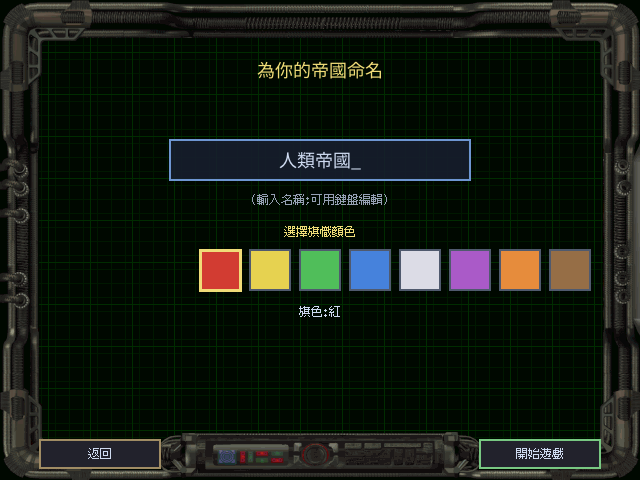
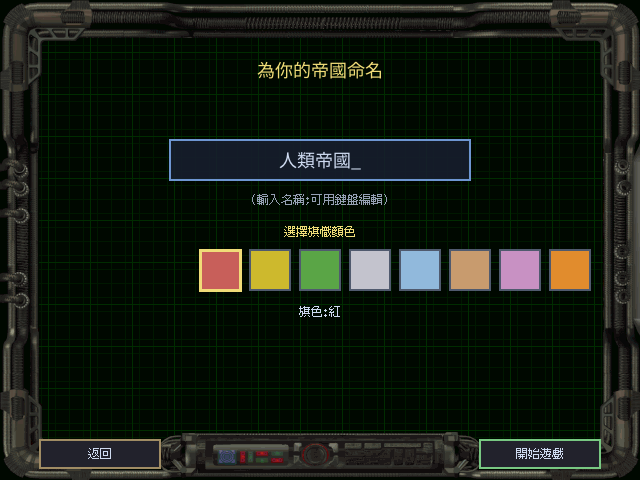
feat(galaxy): 艦隊圖示換成原版的,順帶修掉錯位五格的旗色順序
星圖上的艦隊先前是個 8×8 青色方塊,那是佔位。原版 Draw_Ship_Icons_ @ 0xA070F
畫的是帶旗色的小艦艇 sprite:

    帝國艦隊 = BUFFER0.LBX 資產 205 + 旗色×4 + 縮放

「×4」是因為原版星圖有四段縮放,每段一張圖(205..208 = 11×11 / 12×11 /
12×10 / 16×12,由小到大),縮放值原版還反過來映射(3→0…0→3)——縮得最遠
用最小的圖。remake 星圖沒有縮放(固定全銀河檢視),所以固定用縮放 0。
每張圖 8 幀在跑動畫,remake 只取第 0 幀,靜態的。

⚠ 順帶抓到旗色順序錯位。艦隊圖示既然是 205 + 旗色×4,旗色的順序本身就是
資料;remake 先前是 紅/黃/綠/藍/白/紫/橙/棕,後五個全錯——選藍色會開出白色
的艦隊,而中文模式完全看不出來(顏色名還是對的)。兩個獨立來源對上才改:

  ① BUFFER0 205/209/…/233 渲染出來量代表色
  ② openorion2 src/gfx.h 的 FONT_COLOR_PLAYER_*

兩邊都是 RED / YELLOW / GREEN / SILVER / BLUE / BROWN / PURPLE / ORANGE。
第 4 色原版叫 SILVER(銀)不是 White,量到的 (190,190,198) 也確實偏灰。

另外拿掉星圖左上那行「研究:<主題名>」——那是 remake 自己加的,原版星圖沒有
這東西(研究主題只在研究畫面顯示),而且它就壓在左上角的星星與艦隊圖示上。
原版右欄第 5 格(綠燒瓶)放的是數字,改成每回合研究點數,跟其他四格一致。

gap report 第 32 項另外抄下整張星圖的 9 層繪製順序與 remake 各層完成度
(星雲、視差背景、蟲洞連線、星門、黑洞、外交燈號都還沒有)。

中文模式 17 張逐像素比對:變的是星圖、命名旗色、軌道轟炸三張,其餘未變。

Changed region(s): [[0.3125, 0.5, 0.9375, 0.625]]

diff --git a/cmd/moo2/shipicon.go b/cmd/moo2/shipicon.go
@@ -1,0 +1,102 @@
+package main
+
+// shipicon.go:星圖上的**艦隊圖示**(原版 `Draw_Ship_Icons_` @ 0xA070F)。
+//
+// remake 先前在艦隊所在星畫一個 8×8 的青色方塊——那是佔位,不是原版的東西。
+// 原版是一組帶旗色的小艦艇 sprite。
+//
+// ============ 星圖的圖層順序(`Draw_Main_Main_Screen_` @ 0x8440E)============
+//
+// 順帶把整張星圖的圖層抄下來,免得日後又要重找:
+//
+//	1. `Draw_Wormhole_Links_`   @ 0x85593
+//	2. `Draw_Relocation_Links_` @ 0x85320
+//	3. `Draw_Stars_`            @ 0x85550   → 逐星 `Draw_A_Star_` @ 0x83B02
+//	4. `Draw_A_Gate_Icon_`      @ 0x83741(迴圈)
+//	5. `Print_Star_Names_`      @ 0x88CB7
+//	6. `Draw_Black_Holes_`      @ 0x83BF9
+//	7. `Draw_Ship_Icons_`       @ 0xA070F   ← 這一支
+//	8. `Print_Main_Screen_Data_`@ 0x87BAE
+//	9. `Draw_Diplomacy_Request_Lights_` @ 0x83D06
+//
+// (外層 `Draw_Main_Screen_` 另有 `Draw_Nebulae_` @ 0x84F8F 與 `Draw_Paralax_` @ 0x8500F。)
+// remake 目前只做了 3 與 7 的簡化版,其餘都還沒有——記在 gap report。
+//
+// ============ 圖檔:`Get_Ship_Icon_Pict_Seg_` @ 0xA0D78 ============
+//
+//	帝國艦隊(id 0..7):BUFFER0.LBX 資產 = 0xCD(205) + 旗色×4 + 縮放
+//	第 9 類(id 8)  :              = 0xED(237) + 縮放
+//	id 9..14        :              = 0xF1(241) + (id−9)×4 + 縮放
+//
+// 旗色取自玩家結構 +0x26(結構步距 0xEA9)。「×4」是因為原版星圖有**四段縮放**,
+// 每段一張圖:實測 205..208 是 11×11 / 12×11 / 12×10 / 16×12,由小到大。
+// 縮放值由 `sub_79917` 給,原版還把它反過來映射(3→0、2→1、1→2、0→3)——
+// 也就是**縮得最遠 → 用最小的圖**。
+//
+// ⚠ remake 的星圖沒有縮放(固定全銀河檢視,對應原版縮得最遠那段),所以固定用縮放 0。
+// 真的做出縮放時,這裡要跟著換,不是改圖。
+//
+// 每張圖有 **8 幀**(原版 `Cycle_Ship_Icons_` @ 0x82DFF 在跑動畫)。remake 目前只取第 0 幀,
+// 靜態的——動畫沒做,寫在這裡免得被誤認為已完成。
+//
+// ⚠ 位置用 remake 自己算的星座標,不是原版的 `Get_Ship_Icon_Coords_` @ 0xA0A5C。
+// 原版那支要有「艦隊在兩星之間航行到第幾格」的模型才有意義,remake 的艦隊移動是整段跳的。
+
+import (
+	"strconv"
+
+	"github.com/hajimehoshi/ebiten/v2"
+	"github.com/wicanr2/master-of-orion2-remake-cht/internal/shell"
+)
+
+const (
+	shipIconLBX = "buffer0.lbx"
+	// 原版三段的資產基底(見檔頭)。remake 目前只用得到第一段。
+	shipIconEmpireBase = 205
+	shipIconPerFlag    = 4
+	// remake 星圖固定全銀河檢視 = 原版縮得最遠那一段 → 縮放 0(最小的那張圖)。
+	shipIconZoom = 0
+)
+
+// shipIconAsset 回傳某旗色的艦隊圖示資產編號。旗色超出 0..7 就夾回去——
+// 原版的旗色本來就只有 8 種,越界代表上游有 bug,但畫面不該因此整個不見。
+func shipIconAsset(flag int) int {
+	if flag < 0 || flag >= len(shell.FlagColors) {
+		flag = 0
+	}
+	return shipIconEmpireBase + flag*shipIconPerFlag + shipIconZoom
+}
+
+// shipIconImage 解出艦隊圖示並快取(取不到回 nil,呼叫端自己退回方塊)。
+func (b *sceneBuilder) shipIconImage(flag int) *ebiten.Image {
+	asset := shipIconAsset(flag)
+	key := shipIconLBX + ":" + strconv.Itoa(asset)
+	if im, hit := b.colBldgCache[key]; hit {
+		return im
+	}
+	if b.colBldgCache == nil {
+		b.colBldgCache = map[string]*ebiten.Image{}
+	}
+	var img *ebiten.Image
+	if im, err := decodeAsset(b.res, shipIconLBX, asset); err == nil && len(im.Frames) > 0 {
+		if pal, err := resolvePalette(b.res, im, paletteChain{{"buffer0.lbx", 0}}); err == nil {
+			img = ebiten.NewImageFromImage(im.Frames[0].ToRGBADropTranslucent(pal, im.KeyColor()))
+		}
+	}
+	b.colBldgCache[key] = img
+	return img
+}
+
+// drawShipIconAt 把艦隊圖示畫在 (cx, cy) 置中。回傳有沒有畫成功——
+// 沒有原版資產時(例如單元測試或資料夾不完整)呼叫端要自己退回舊的方塊標記。
+func (b *sceneBuilder) drawShipIconAt(dst *ebiten.Image, flag, cx, cy int) bool {
+	im := b.shipIconImage(flag)
+	if im == nil {
+		return false
+	}
+	w, h := im.Bounds().Dx(), im.Bounds().Dy()
+	op := &ebiten.DrawImageOptions{}
+	op.GeoM.Translate(float64(cx-w/2), float64(cy-h/2))
+	dst.DrawImage(im, op)
+	return true
+}

diff --git a/cmd/moo2/shipicon_test.go b/cmd/moo2/shipicon_test.go
@@ -1,0 +1,69 @@
+package main
+
+// shipicon_test.go:星圖艦隊圖示 + 旗色索引的護欄。
+//
+// 這兩者綁在一起:艦隊圖示的資產編號是 `205 + 旗色×4`,所以**旗色的順序本身就是資料**。
+// 順序錯了不會有任何錯誤訊息——顏色名還是對的,只是畫面上的小圖換成別人的顏色。
+
+import (
+	"testing"
+
+	"github.com/wicanr2/master-of-orion2-remake-cht/internal/shell"
+)
+
+// TestShipIconAssetMatchesOriginal:資產 = 205 + 旗色×4 + 縮放(`Get_Ship_Icon_Pict_Seg_`)。
+// 順帶釘住「旗色只有 8 種、資產落在 205..236」——多算一格會踩到 237 起的中立/怪獸那組。
+func TestShipIconAssetMatchesOriginal(t *testing.T) {
+	if len(shell.FlagColors) != 8 {
+		t.Fatalf("旗色應為 8 種(原版 BUFFER0 每 4 張一組共 32 張),實得 %d", len(shell.FlagColors))
+	}
+	for i := range shell.FlagColors {
+		want := 205 + i*4
+		if got := shipIconAsset(i); got != want {
+			t.Errorf("旗色 %d 的資產 = %d,want %d", i, got, want)
+		}
+		if got := shipIconAsset(i); got < 205 || got > 236 {
+			t.Errorf("旗色 %d 的資產 %d 超出帝國那組 205..236", i, got)
+		}
+	}
+	// 越界夾回第 0 色:上游有 bug 時畫面不該整個不見。
+	for _, bad := range []int{-1, 8, 99} {
+		if got := shipIconAsset(bad); got != 205 {
+			t.Errorf("旗色 %d(越界)應夾回 205,實得 %d", bad, got)
+		}
+	}
+}
+
+// TestFlagColorsMatchOriginalOrder:旗色順序**就是原版的旗色索引**,不能重排。
+//
+// 排錯了選紅色會開出白色的艦隊(艦隊圖示 = 205 + 旗色×4),而且中文模式看不出來——
+// 顏色名還是對的,只有畫面上的小圖不對。2026-08-07 修過一次:先前是
+// 紅/黃/綠/**藍/白/紫/橙/棕**,後五個全錯位。
+//
+// 兩個獨立來源:① BUFFER0.LBX 205/209/…/233 渲染出來量代表色;
+// ② openorion2 `src/gfx.h` 的 `FONT_COLOR_PLAYER_*`(RED/YELLOW/GREEN/SILVER/BLUE/BROWN/PURPLE/ORANGE)。
+func TestFlagColorsMatchOriginalOrder(t *testing.T) {
+	want := []string{"Red", "Yellow", "Green", "Silver", "Blue", "Brown", "Purple", "Orange"}
+	if len(shell.FlagColors) != len(want) {
+		t.Fatalf("旗色數 %d,want %d", len(shell.FlagColors), len(want))
+	}
+	for i, w := range want {
+		if got := shell.FlagColors[i].EnName; got != w {
+			t.Errorf("第 %d 色 = %q,want %q(原版旗色索引順序)", i, got, w)
+		}
+	}
+	// 量到的代表色:銀是灰的(R≈G≈B)、藍偏亮。這兩條擋的是「名字對了但 RGB 抄舊值」。
+	if s := shell.FlagColors[3]; !(abs8(s.R, s.G) < 20 && abs8(s.G, s.B) < 20) {
+		t.Errorf("第 3 色(銀)RGB (%d,%d,%d) 不像灰色", s.R, s.G, s.B)
+	}
+	if bl := shell.FlagColors[4]; !(bl.B > bl.R && bl.B > bl.G) {
+		t.Errorf("第 4 色(藍)RGB (%d,%d,%d) 的藍不是最強", bl.R, bl.G, bl.B)
+	}
+}
+
+func abs8(a, b uint8) int {
+	if a > b {
+		return int(a - b)
+	}
+	return int(b - a)
+}

diff --git a/cmd/moo2/interactive.go b/cmd/moo2/interactive.go
@@ -791,16 +791,20 @@ func (b *sceneBuilder) galaxy() (*overlayScreen, error) {
 					579, 62, 9, color.RGBA{205, 215, 165, 255})
 				netCmd := sess.Player.CommandPointsSupply - sess.Player.UsedCommandPoints
 				fnt.DrawCentered(dst, fmt.Sprintf("%d", netCmd), 579, 182, 12, infoCol) // 指揮評等(供給-需求)
-				foodSum := 0
+				foodSum, rpSum := 0, 0
 				for i := range sess.PlayerColonies {
-					foodSum += engine.RunColonyTurn(sess.PlayerColonies[i]).FoodSurplus
+					out := engine.RunColonyTurn(sess.PlayerColonies[i])
+					foodSum += out.FoodSurplus
+					rpSum += out.Research
 				}
 				fnt.DrawCentered(dst, fmt.Sprintf("%d", foodSum), 579, 257, 12, infoCol)                      // 食物盈餘
 				fnt.DrawCentered(dst, fmt.Sprintf("%d", sess.Player.ActiveFreighters), 579, 331, 12, infoCol) // 運輸艦數
-				// 研究主題名較長(65px 格塞不下),原版該格只放圖示;本 remake 保留可讀的
-				// 主題名一行於左上(僅此一行,不再與星曆/國庫疊三行蓋星圖)。
-				fnt.Draw(dst, fmt.Sprintf(b.tr("研究:%s", "Research: %s"), topicNameZh(b.lang, sess.Player.ResearchTopic)),
-					30, 34, 12, color.RGBA{160, 210, 240, 255})
+				// 第 5 格(綠燒瓶)= 每回合研究點數,補齊右欄五格。
+				//
+				// ⚠ 2026-08-07:先前這裡把「研究:<主題名>」畫在星圖左上 (30,34)。那是 remake 自己
+				// 加的一行——**原版星圖沒有這個東西**(研究主題只在研究畫面顯示),而且它會壓到
+				// 左上角的星星與艦隊圖示。原版這格放的是數字,跟其他四格一樣,所以改成數字。
+				fnt.DrawCentered(dst, fmt.Sprintf("%d", rpSum), 579, 405, 12, infoCol)
 				// 艦隊位置標記(青色三角)+ 航行目的連線。
 				if sess.FleetAtStar >= 0 && sess.FleetAtStar < len(sess.Stars) {
 					fx, fy := starScreenPos(sess.Stars[sess.FleetAtStar])
@@ -808,7 +812,11 @@ func (b *sceneBuilder) galaxy() (*overlayScreen, error) {
 						dx, dy := starScreenPos(sess.Stars[sess.FleetDestStar])
 						vector.StrokeLine(dst, float32(fx), float32(fy), float32(dx), float32(dy), 1, color.RGBA{80, 220, 220, 180}, false)
 					}
-					vector.DrawFilledRect(dst, float32(fx-4), float32(fy-4), 8, 8, color.RGBA{80, 240, 240, 255}, false)
+					// 艦隊圖示:原版 `Draw_Ship_Icons_` 的帶旗色小艦艇(見 shipicon.go)。
+					// 取不到資產才退回舊的青色方塊——那是佔位,不是原版的東西。
+					if !b.drawShipIconAt(dst, sess.FlagColor, fx, fy) {
+						vector.DrawFilledRect(dst, float32(fx-4), float32(fy-4), 8, 8, color.RGBA{80, 240, 240, 255}, false)
+					}
 				}
 				// 選中星:顯示該星系行星資訊 + 派遣艦隊/載運陸戰隊/軌道轟炸/發動入侵按鈕(左下角面板)。
 				if sess.SelectedStar >= 0 && sess.SelectedStar < len(sess.Planets) {

diff --git a/internal/shell/session.go b/internal/shell/session.go
@@ -1804,20 +1804,38 @@ func (s *GameSession) ApplyCustomRaceBonuses(r Race) {
 	s.Player.BC += r.StartBC
 }
 
-// FlagColors 是玩家旗幟顏色選項(原版新遊戲命名畫面選旗色)。RGB 為近似值,供 UI 呈現。
+// FlagColors 是玩家旗幟顏色選項(原版新遊戲命名畫面選旗色)。
+//
+// **順序就是原版的旗色索引**(存在玩家結構 +0x26),不能重排——星圖上的艦隊圖示是
+// `BUFFER0.LBX 資產 205 + 旗色×4 + 縮放`(見 `Get_Ship_Icon_Pict_Seg_` @ 0xA0D78),
+// 順序錯了選紅色會開出白色的艦隊。
+//
+// ⚠ 2026-08-07 修正:先前是「紅/黃/綠/**藍/白/紫/橙/棕**」,後五個全錯位。
+// 兩個獨立來源對上才改的:
+//
+//	① 把 BUFFER0.LBX 205/209/213/217/221/225/229/233(每組縮放 0 那張)渲染出來量代表色 →
+//	   (192,101,96) 紅 /(193,173,28) 黃 /(81,155,61) 綠 /(190,190,198) 銀 /
+//	   (143,184,216) 藍 /(198,154,111) 棕 /(196,141,193) 紫 /(223,139,45) 橙
+//	② openorion2 `src/gfx.h` 的 `FONT_COLOR_PLAYER_*`:
+//	   RED → YELLOW → GREEN → **SILVER** → BLUE → BROWN → PURPLE → ORANGE
+//
+// 一個量自原版美術、一個抄自別人的重製專案,兩邊逐項相同。
+// 原版第 4 色叫 **SILVER**(銀)不是 White——量到的 (190,190,198) 也確實偏灰。
+//
+// RGB 取自 ① 的量測值(小圖的高光像素,略提亮以便在 UI 上辨識)。
 var FlagColors = []struct {
 	Name    string
 	EnName  string
 	R, G, B uint8
 }{
-	{"紅", "Red", 210, 60, 50},
-	{"黃", "Yellow", 230, 210, 80},
-	{"綠", "Green", 80, 190, 90},
-	{"藍", "Blue", 70, 130, 220},
-	{"白", "White", 220, 220, 230},
-	{"紫", "Purple", 170, 90, 200},
-	{"橙", "Orange", 230, 140, 60},
-	{"棕", "Brown", 150, 110, 70},
+	{"紅", "Red", 200, 95, 90},
+	{"黃", "Yellow", 205, 185, 45},
+	{"綠", "Green", 90, 165, 70},
+	{"銀", "Silver", 195, 195, 205},
+	{"藍", "Blue", 145, 185, 220},
+	{"棕", "Brown", 200, 155, 110},
+	{"紫", "Purple", 200, 145, 195},
+	{"橙", "Orange", 225, 140, 45},
 }
 
 // Governments 是自訂種族可選的政府型態(順序對應 customrace 政府型態循環選項)。

diff --git a/cmd/moo2/colonyscreen.go b/cmd/moo2/colonyscreen.go
@@ -190,10 +190,10 @@ func (b *sceneBuilder) colonyBuildChoices() []shell.ColonyBuild {
 //
 //	地表兩層 → 框架(`Draw_Colony_Info_Background`)→ 建築(`Draw_Colony_Bldgs`)→ 資訊面板
 //
-//  1. 框架(COLPUPS.LBX#5)只有**中段**(y 159..423,原版的行星表面)是透明的,上方那三個
-//     資訊面板是**不透明的深色星空紋理**。內容先畫、框架後蓋,上半部的字會整片不見。
-//  2. 反過來把地表也擺在框架後面同樣不行:地表底層是整片 640×480 的星空,會把上方面板
-//     蓋成一片雜點。地表必須在**框架之前**,建築則在**框架之後**——原版就是這樣夾的。
+// ① 框架(COLPUPS.LBX#5)只有**中段**(y 159..423,原版的行星表面)是透明的,上方那三個
+// 資訊面板是**不透明的深色星空紋理**。內容先畫、框架後蓋,上半部的字會整片不見。
+// ② 反過來把地表也擺在框架後面同樣不行:地表底層是整片 640×480 的星空,會把上方面板
+// 蓋成一片雜點。地表必須在**框架之前**,建築則在**框架之後**——原版就是這樣夾的。
 func (b *sceneBuilder) drawColonyScreen(dst *ebiten.Image, idx int) {
 	if b.fnt == nil || b.session == nil {
 		return

diff --git a/docs/re/01-gap-report.md b/docs/re/01-gap-report.md
@@ -1200,3 +1200,69 @@ remake 的新遊戲流程順序與此一致;`Main_Screen_ → Do_Colony_Screen_`
     中文模式全 17 張逐像素比對:**只有殖民地畫面變了**,其餘未變。
     IDA 的 `-Ohexrays` 批次反編這一輪起不來(`Failed to initialize IDA as library, error code 4`,
     兩次都是),本項全部改用手讀 `.asm` 完成——軸向那個錯就是這樣抓到的。
+
+32. **星圖:艦隊圖示換成原版的、旗色順序修正、拿掉浮在星圖上的研究文字**(2026-08-07)。
+
+    ### 先把星圖的圖層順序抄下來(`Draw_Main_Main_Screen_` @ 0x8440E)
+
+    | # | 圖層 | 位址 | remake |
+    |---|---|---|---|
+    | 1 | `Draw_Wormhole_Links_` | 0x85593 | ❌ |
+    | 2 | `Draw_Relocation_Links_` | 0x85320 | ❌ |
+    | 3 | `Draw_Stars_` → 逐星 `Draw_A_Star_` | 0x85550 / 0x83B02 | ⚠ 簡化(自畫圓點,非原版星球 sprite)|
+    | 4 | `Draw_A_Gate_Icon_`(迴圈) | 0x83741 | ❌ |
+    | 5 | `Print_Star_Names_` | 0x88CB7 | ⚠ 簡化 |
+    | 6 | `Draw_Black_Holes_` | 0x83BF9 | ❌ |
+    | 7 | `Draw_Ship_Icons_` | 0xA070F | ✅ 本項 |
+    | 8 | `Print_Main_Screen_Data_` | 0x87BAE | ⚠ 簡化(右欄五格數字)|
+    | 9 | `Draw_Diplomacy_Request_Lights_` | 0x83D06 | ❌ |
+
+    外層 `Draw_Main_Screen_` 另有 `Draw_Nebulae_` @ 0x84F8F 與 `Draw_Paralax_` @ 0x8500F,
+    remake 兩者都沒有——星圖背景目前是純黑。
+
+    ### 艦隊圖示(`Get_Ship_Icon_Pict_Seg_` @ 0xA0D78)
+
+    ```
+    帝國艦隊(id 0..7):BUFFER0.LBX 資產 = 0xCD(205) + 旗色×4 + 縮放
+    id 8              :              = 0xED(237) + 縮放
+    id 9..14          :              = 0xF1(241) + (id−9)×4 + 縮放
+    ```
+
+    「×4」是因為原版星圖有**四段縮放**,每段一張圖(實測 205..208 = 11×11 / 12×11 /
+    12×10 / 16×12,由小到大)。縮放由 `sub_79917` 給,原版再反過來映射(3→0、2→1、1→2、0→3)
+    ——縮得最遠用最小的圖。remake 的星圖沒有縮放(固定全銀河檢視 = 原版縮得最遠那段),
+    所以固定用縮放 0。每張圖有 8 幀(`Cycle_Ship_Icons_` @ 0x82DFF 在跑動畫),remake 只取第 0 幀。
+
+    remake 先前在艦隊所在星畫一個 8×8 青色方塊,那是佔位。
+
+    ⚠ 位置仍用 remake 自己算的星座標,不是 `Get_Ship_Icon_Coords_` @ 0xA0A5C。
+    原版那支對 `word_1906C6` 做六路分支(艦隊在星系內的停泊槽 / 航行中的插值),
+    要有對應的艦隊位置模型才有意義,remake 的艦隊移動是整段跳的。
+
+    ### ⚠ 旗色順序錯位(又是一個看不出症狀的錯)
+
+    艦隊圖示既然是 `205 + 旗色×4`,**旗色的順序本身就是資料**。
+    remake 先前是 紅/黃/綠/**藍/白/紫/橙/棕**,後五個全錯位——選紅色沒事,選藍色會開出
+    白色的艦隊。中文模式完全看不出來(顏色名還是對的)。
+
+    兩個獨立來源對上才改:
+
+    | 索引 | 0 | 1 | 2 | 3 | 4 | 5 | 6 | 7 |
+    |---|---|---|---|---|---|---|---|---|
+    | BUFFER0 205/209/…/233 量到的代表色 | (192,101,96) | (193,173,28) | (81,155,61) | (190,190,198) | (143,184,216) | (198,154,111) | (196,141,193) | (223,139,45) |
+    | openorion2 `gfx.h` `FONT_COLOR_PLAYER_*` | RED | YELLOW | GREEN | **SILVER** | BLUE | BROWN | PURPLE | ORANGE |
+
+    一個量自原版美術、一個抄自別人的重製專案,逐項相同。原版第 4 色叫 **SILVER**(銀)
+    不是 White——量到的 (190,190,198) 也確實偏灰。護欄:`TestFlagColorsMatchOriginalOrder`。
+
+    ### 拿掉星圖左上那行「研究:<主題名>」
+
+    那是 remake 自己加的一行,**原版星圖沒有這個東西**(研究主題只在研究畫面顯示),
+    而且它就壓在左上角的星星與艦隊圖示上。原版右欄第 5 格(綠燒瓶)放的是數字,跟其他四格
+    一樣——改成每回合研究點數,位置 (579, 405)(其他四格是 110 / 182 / 257 / 331,
+    間距 ~74,第 5 格順推)。
+
+    ### 驗證
+
+    中文模式 17 張逐像素比對:變的是星圖、命名旗色、軌道轟炸三張(後兩張用 `FlagColors`),
+    其餘未變。

diff --git a/WORKLIST.md b/WORKLIST.md
@@ -178,6 +178,17 @@
     抑制規則 `sub_BC21B` 就是原版的星基 → 戰鬥站 → 星際要塞升級鏈。
   - 仍缺:道路沒畫、擺放的最後一段隨機微調沒做、地形變體那一欄用 PRNG 代替原版的存檔欄位
     (不是真值,已標明)。
+- **星圖:艦隊圖示 + 旗色順序**(gap report 第 32 項,同日):
+  - 艦隊圖示換成原版的(`Get_Ship_Icon_Pict_Seg_`:BUFFER0.LBX `205 + 旗色×4 + 縮放`),
+    取代先前那個 8×8 青色方塊。remake 星圖沒有縮放,固定用縮放 0(最小那張)。
+  - ⚠ **旗色順序修正**:先前是 紅/黃/綠/**藍/白/紫/橙/棕**,後五個全錯位——而艦隊圖示是
+    `205 + 旗色×4`,所以選藍色會開出白色的艦隊,中文模式完全看不出來。兩個獨立來源對上
+    才改(BUFFER0 每組實測代表色 + openorion2 `FONT_COLOR_PLAYER_*`):
+    正確順序是 **紅/黃/綠/銀/藍/棕/紫/橙**(第 4 色原版叫 SILVER 不是 White)。
+  - 拿掉星圖左上那行「研究:<主題名>」——原版星圖沒有這東西,而且它壓在星星與艦隊圖示上。
+    右欄第 5 格(綠燒瓶)改放每回合研究點數,跟其他四格一致。
+  - 順帶把整張星圖的 9 層繪製順序抄進 gap report,標出 remake 各層的完成度
+    (星雲、視差背景、蟲洞連線、星門、黑洞、外交燈號都還沒有)。
   - IDA 的 `-Ohexrays` 這一輪起不來(error code 4,兩次),整項改用手讀 `.asm` 完成。
 - **兩個零值陷阱**(都加了回歸測試):`TechLevel` 零值 = 曲速前 → 舊存檔艦隊全凍住;
   `i18n.English` 是 `Lang` 的零值 → 忘了設 lang 的建構路徑會靜默變英文。
